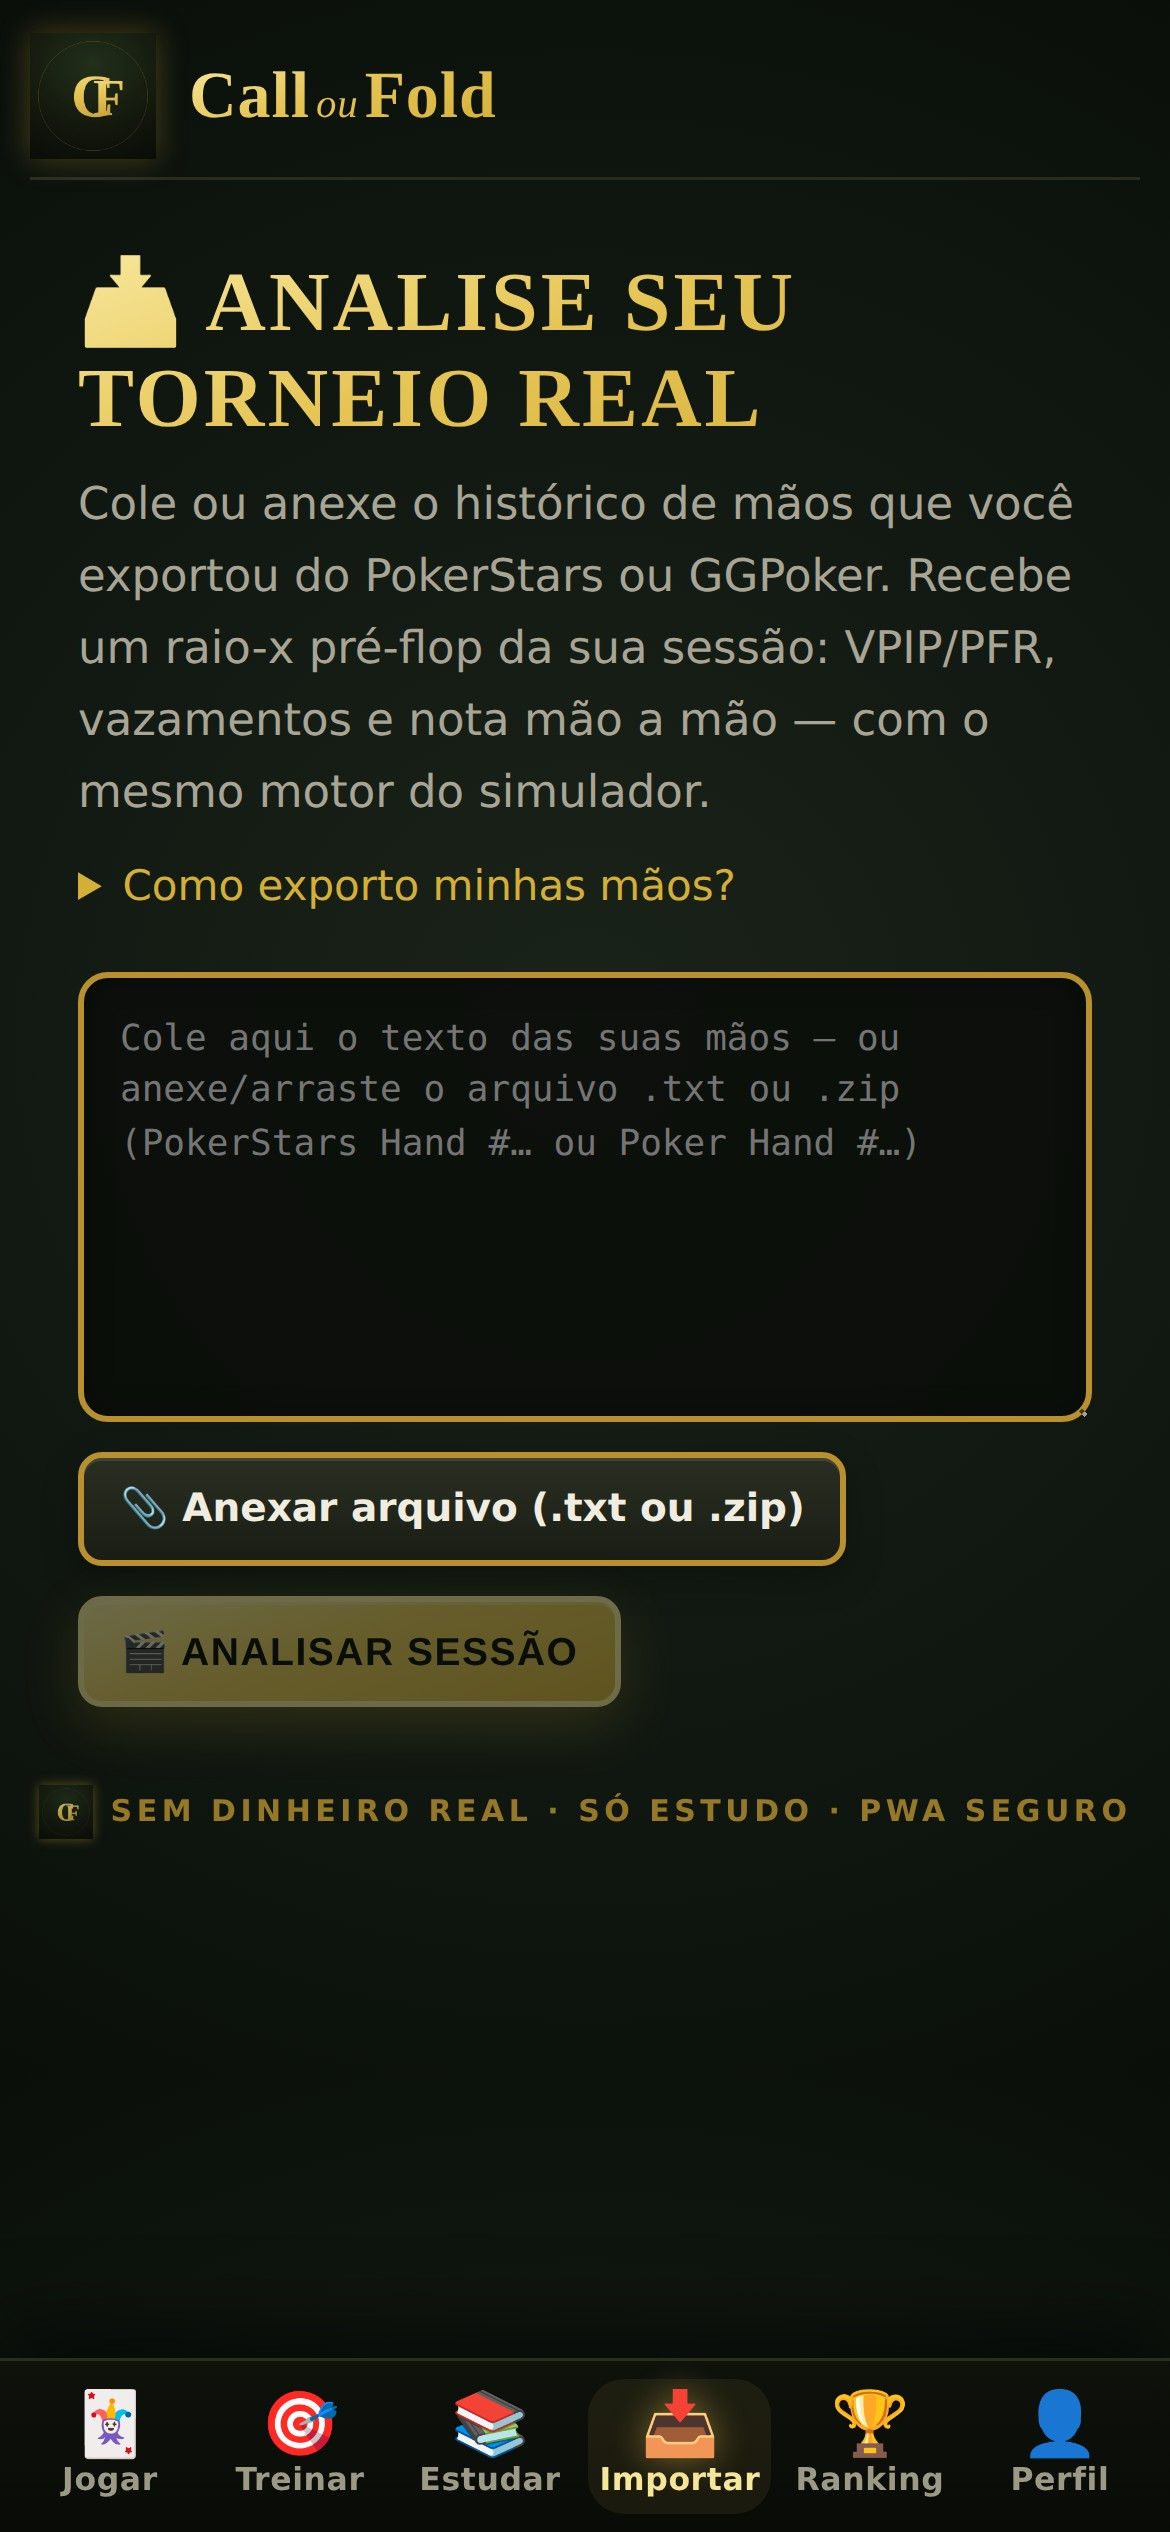
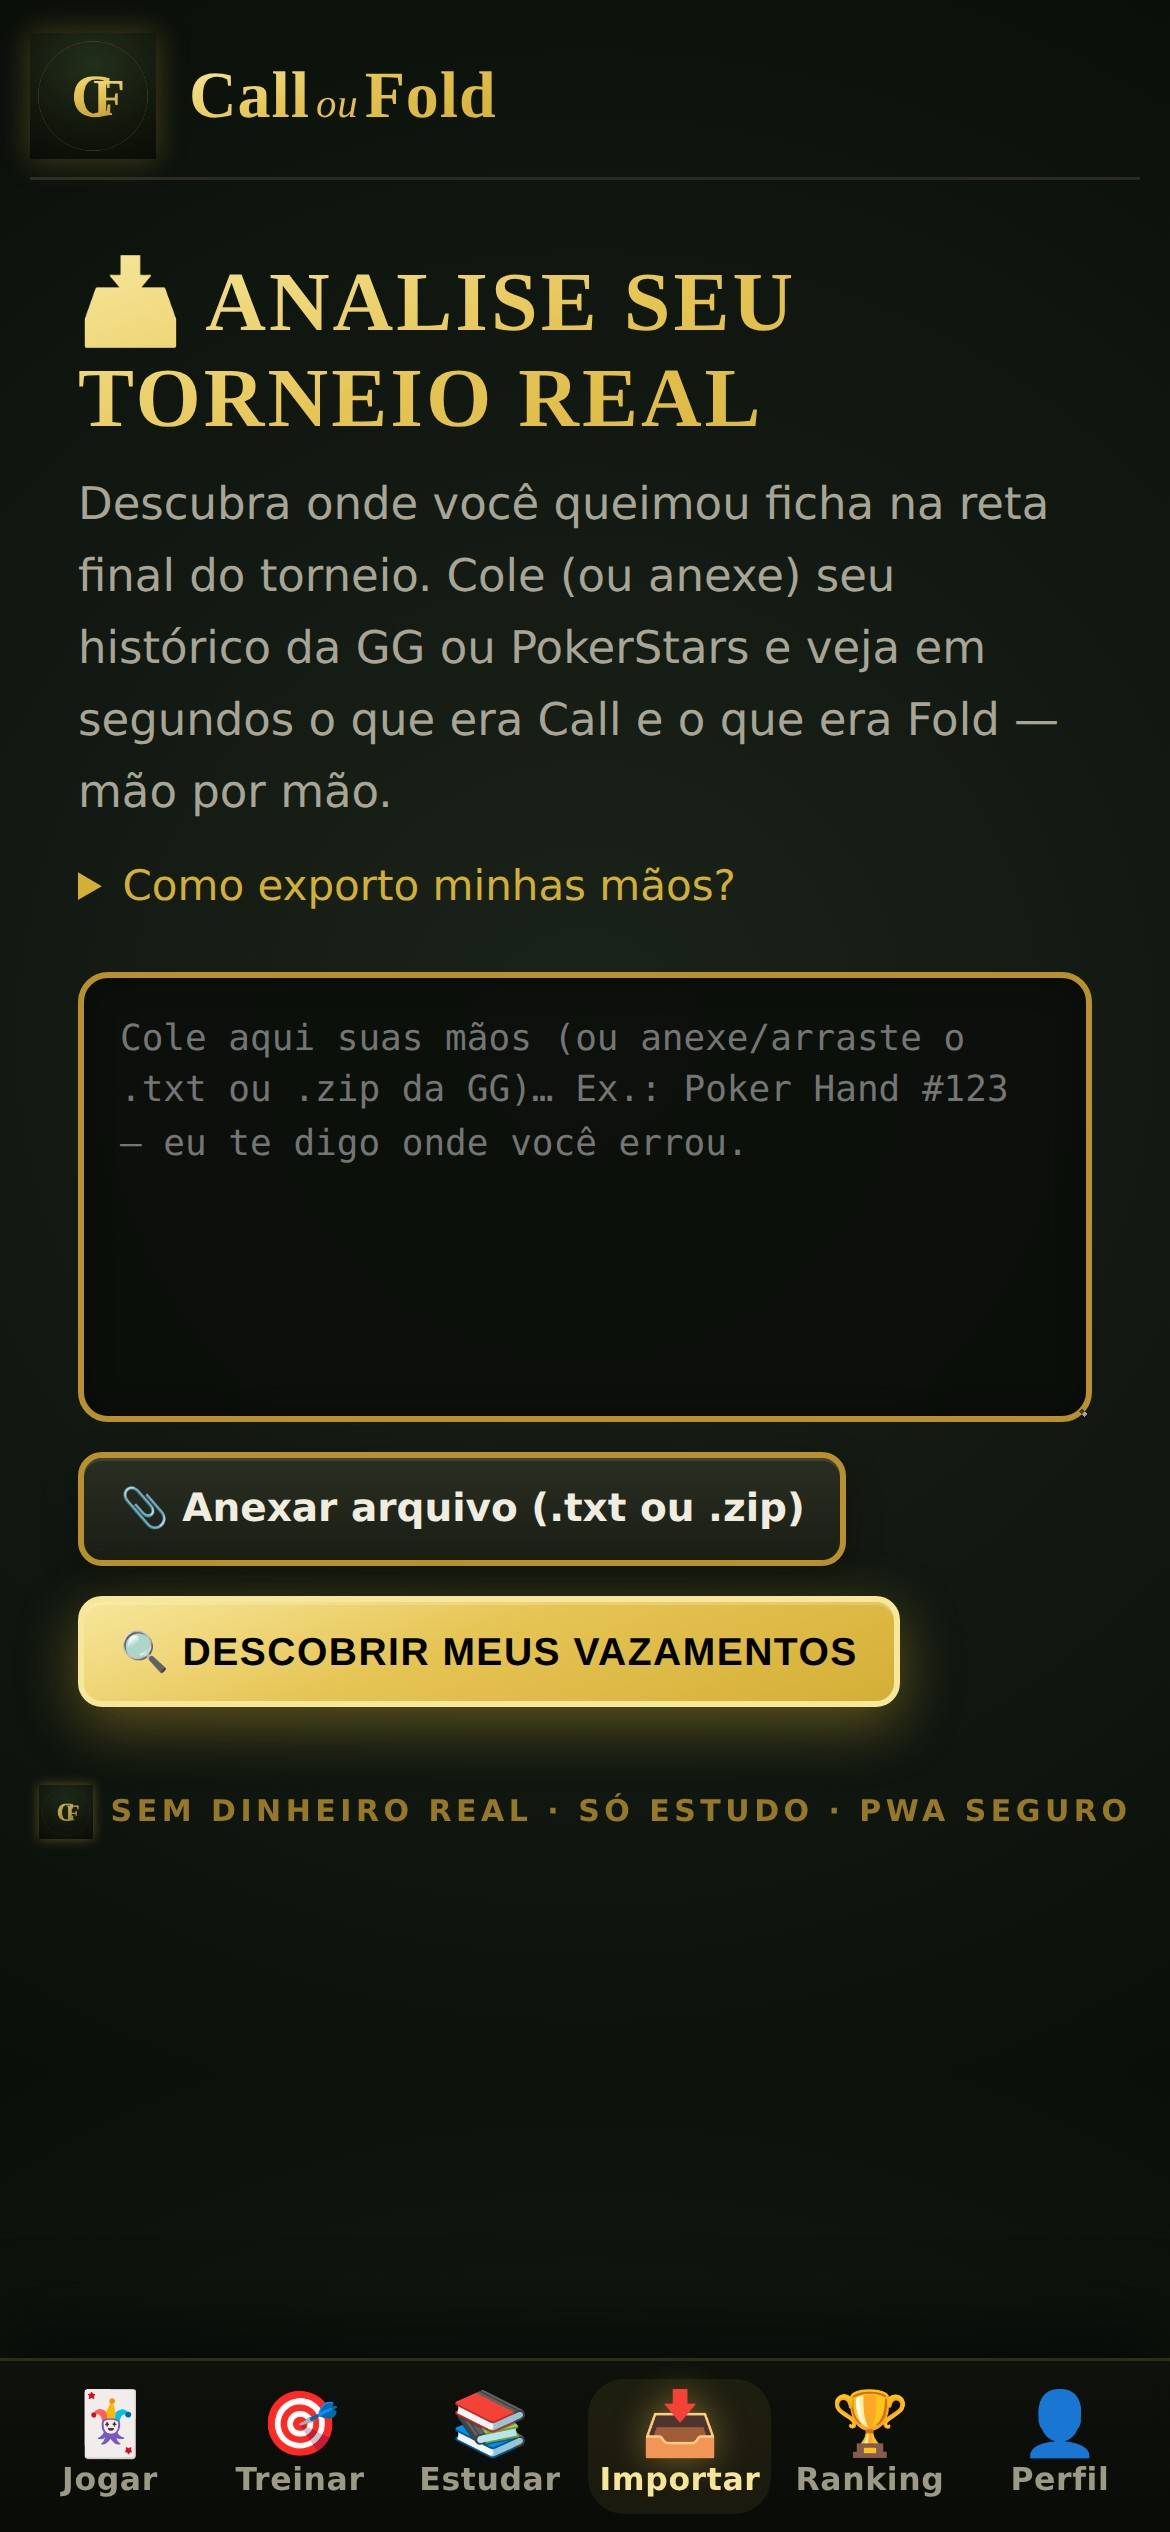
Importar: copy focado na dor + botão sempre aceso
Melhora de conversão na tela de importar (feedback do Allan + sugestão
externa, filtrada):

- Subtítulo troca o jargão VPIP/PFR por benefício direto: "descubra onde
  você queimou ficha na reta final... veja em segundos o que era Call e
  o que era Fold" (PT/ES/EN)
- Placeholder mais humano, mantendo a dica de anexar .txt/.zip
- Botão "Analisar sessão" → "🔍 Descobrir meus vazamentos", e deixa de
  ficar cinza-desabilitado: fica sempre aceso (dourado da marca). Se
  clicado vazio, foca a caixa e mostra uma dica em vez de parecer quebrado
- Atualiza o print reels/3-importar.jpg com o texto novo

Mantém o dourado da marca (não o hex sugerido de fora) pra consistência.

Claude-Session: https://claude.ai/code/session_01YEcRbF3YpvTnPycdC9Pqke

diff --git a/src/i18n/translations.ts b/src/i18n/translations.ts
@@ -135,13 +135,14 @@ export const TRANSLATIONS = {
     "learn.failed": "{c}/{n} acertos — precisa de 3. Tente de novo, a lição continua aberta.",
     "tab.ranges": "Ranges",
     "import.title": "Analise seu torneio real",
-    "import.subtitle": "Cole ou anexe o histórico de mãos que você exportou do PokerStars ou GGPoker. Recebe um raio-x pré-flop da sua sessão: VPIP/PFR, vazamentos e nota mão a mão — com o mesmo motor do simulador.",
+    "import.subtitle": "Descubra onde você queimou ficha na reta final do torneio. Cole (ou anexe) seu histórico da GG ou PokerStars e veja em segundos o que era Call e o que era Fold — mão por mão.",
     "import.howTitle": "Como exporto minhas mãos?",
     "import.howStars": "no cliente, Configurações → Histórico de Mãos → salvar/exportar em ‘Meu Histórico’. Abra o arquivo .txt e cole aqui.",
     "import.howGg": "em Configurações → Histórico de Mãos, ative e baixe o histórico. O GG entrega um arquivo .zip — pode anexar (ou arrastar) o .zip direto aqui, que a gente abre pra você. Não precisa extrair nem copiar mão por mão.",
-    "import.placeholder": "Cole aqui o texto das suas mãos — ou anexe/arraste o arquivo .txt ou .zip (PokerStars Hand #… ou Poker Hand #…)",
+    "import.placeholder": "Cole aqui suas mãos (ou anexe/arraste o .txt ou .zip da GG)… Ex.: Poker Hand #123 — eu te digo onde você errou.",
     "import.chooseFile": "Anexar arquivo (.txt ou .zip)",
-    "import.analyze": "Analisar sessão",
+    "import.analyze": "Descobrir meus vazamentos",
+    "import.emptyHint": "Cole ou anexe suas mãos primeiro — aí eu te mostro os vazamentos. 👇",
     "import.clear": "Limpar",
     "import.errorEmpty": "Não encontrei nenhuma mão válida. Confira se colou o histórico do PokerStars ou GGPoker.",
     "import.errorZip": "Não consegui abrir esse arquivo. Se for .zip do GGPoker, tente anexar de novo; se não der, extraia o .txt de dentro e anexe ele.",
@@ -685,13 +686,14 @@ export const TRANSLATIONS = {
     "anat.denom": "📐 Números del motor, medidos de todas las manos",
     "tab.ranges": "Rangos",
     "import.title": "Analiza tu torneo real",
-    "import.subtitle": "Pega o adjunta el historial de manos que exportaste de PokerStars o GGPoker. Recibe una radiografía preflop de tu sesión: VPIP/PFR, fugas y nota mano a mano — con el mismo motor del simulador.",
+    "import.subtitle": "Descubre dónde quemaste fichas en la recta final del torneo. Pega (o adjunta) tu historial de GG o PokerStars y ve en segundos qué era Call y qué era Fold — mano a mano.",
     "import.howTitle": "¿Cómo exporto mis manos?",
     "import.howStars": "en el cliente, Ajustes → Historial de Manos → guardar/exportar en ‘Mi Historial’. Abre el archivo .txt y pégalo aquí.",
     "import.howGg": "en Ajustes → Historial de Manos, actívalo y descarga el historial. GG entrega un archivo .zip — puedes adjuntar (o arrastrar) el .zip aquí y lo abrimos por ti. No hace falta extraer ni copiar mano por mano.",
-    "import.placeholder": "Pega aquí el texto de tus manos — o adjunta/arrastra el archivo .txt o .zip (PokerStars Hand #… o Poker Hand #…)",
+    "import.placeholder": "Pega aquí tus manos (o adjunta/arrastra el .txt o .zip de GG)… Ej.: Poker Hand #123 — te digo dónde te equivocaste.",
     "import.chooseFile": "Adjuntar archivo (.txt o .zip)",
-    "import.analyze": "Analizar sesión",
+    "import.analyze": "Descubrir mis fugas",
+    "import.emptyHint": "Pega o adjunta tus manos primero — y te muestro las fugas. 👇",
     "import.clear": "Limpiar",
     "import.errorEmpty": "No encontré ninguna mano válida. Verifica que pegaste el historial de PokerStars o GGPoker.",
     "import.errorZip": "No pude abrir ese archivo. Si es un .zip de GGPoker, intenta adjuntarlo de nuevo; si no funciona, extrae el .txt de dentro y adjúntalo.",
@@ -1211,13 +1213,14 @@ export const TRANSLATIONS = {
     "anat.denom": "📐 Engine numbers, measured across all hands",
     "tab.ranges": "Ranges",
     "import.title": "Analyze your real tournament",
-    "import.subtitle": "Paste or attach the hand history you exported from PokerStars or GGPoker. Get a preflop x-ray of your session: VPIP/PFR, leaks and a grade for every hand — using the same engine as the simulator.",
+    "import.subtitle": "Find out where you burned chips down the stretch. Paste (or attach) your GG or PokerStars history and see in seconds what was a Call and what was a Fold — hand by hand.",
     "import.howTitle": "How do I export my hands?",
     "import.howStars": "in the client, Settings → Hand History → save/export in ‘My History’. Open the .txt file and paste it here.",
     "import.howGg": "in Settings → Hand History, enable and download the history. GG gives you a .zip file — just attach (or drag) the .zip here and we'll open it for you. No need to extract or copy hand by hand.",
-    "import.placeholder": "Paste your hands here — or attach/drag the .txt or .zip file (PokerStars Hand #… or Poker Hand #…)",
+    "import.placeholder": "Paste your hands here (or attach/drag the .txt or .zip from GG)… e.g. Poker Hand #123 — I'll tell you where you went wrong.",
     "import.chooseFile": "Attach file (.txt or .zip)",
-    "import.analyze": "Analyze session",
+    "import.analyze": "Find my leaks",
+    "import.emptyHint": "Paste or attach your hands first — then I'll show you the leaks. 👇",
     "import.clear": "Clear",
     "import.errorEmpty": "No valid hands found. Make sure you pasted a PokerStars or GGPoker history.",
     "import.errorZip": "Couldn't open that file. If it's a GGPoker .zip, try attaching it again; otherwise extract the .txt inside and attach that.",

diff --git a/src/ui/ImportView.tsx b/src/ui/ImportView.tsx
@@ -4,7 +4,7 @@
 // mão a mão, usando o mesmo motor do simulador.
 // ---------------------------------------------------------------------------
 
-import { useEffect, useState } from "react";
+import { useEffect, useRef, useState } from "react";
 import { useT } from "../i18n";
 import { CardView } from "./Card";
 import { cardsFromString } from "../engine/cards";
@@ -43,6 +43,7 @@ export function ImportView() {
   const [onlyProblems, setOnlyProblems] = useState(false);
   const [replay, setReplay] = useState(false);
   const [parsed, setParsed] = useState<ParsedHand[]>([]);
+  const textareaRef = useRef<HTMLTextAreaElement>(null);
 
   // Reabre automaticamente o ÚLTIMO histórico importado (pedido do Allan 18/08:
   // não perder a sessão ao atualizar/sair do app). O texto cru fica no
@@ -177,6 +178,7 @@ export function ImportView() {
         onDrop={onDrop}
       >
         <textarea
+          ref={textareaRef}
           className="import-textarea"
           value={text}
           onChange={(e) => setText(e.target.value)}
@@ -193,8 +195,20 @@ export function ImportView() {
               onChange={(e) => onFile(e.target.files?.[0])}
             />
           </label>
-          <button className="btn primary" disabled={!text.trim()} onClick={() => run(text)}>
-            🎬 {t("import.analyze")}
+          <button
+            className="btn primary"
+            onClick={() => {
+              // Botão SEMPRE aceso (converte melhor). Se estiver vazio, em vez de
+              // ficar "morto", dá um empurrãozinho: foca a caixa e mostra a dica.
+              if (!text.trim()) {
+                setError(t("import.emptyHint"));
+                textareaRef.current?.focus();
+                return;
+              }
+              run(text);
+            }}
+          >
+            🔍 {t("import.analyze")}
           </button>
           {text ? (
             <button
